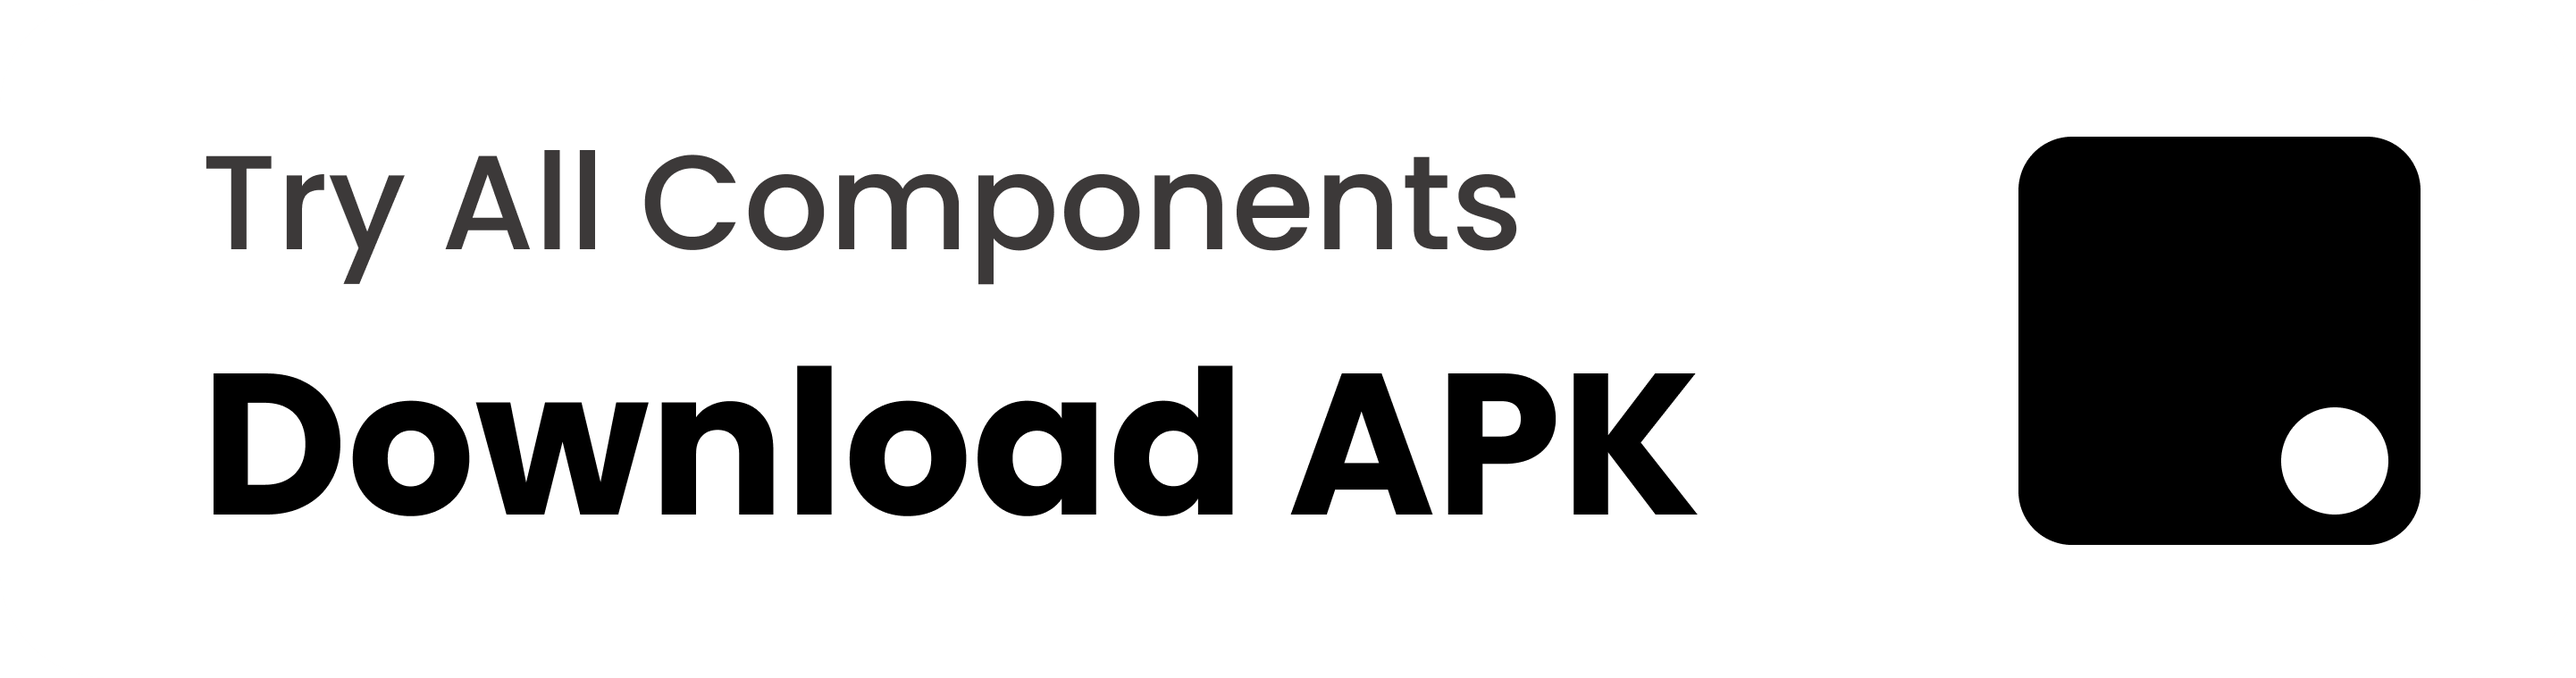
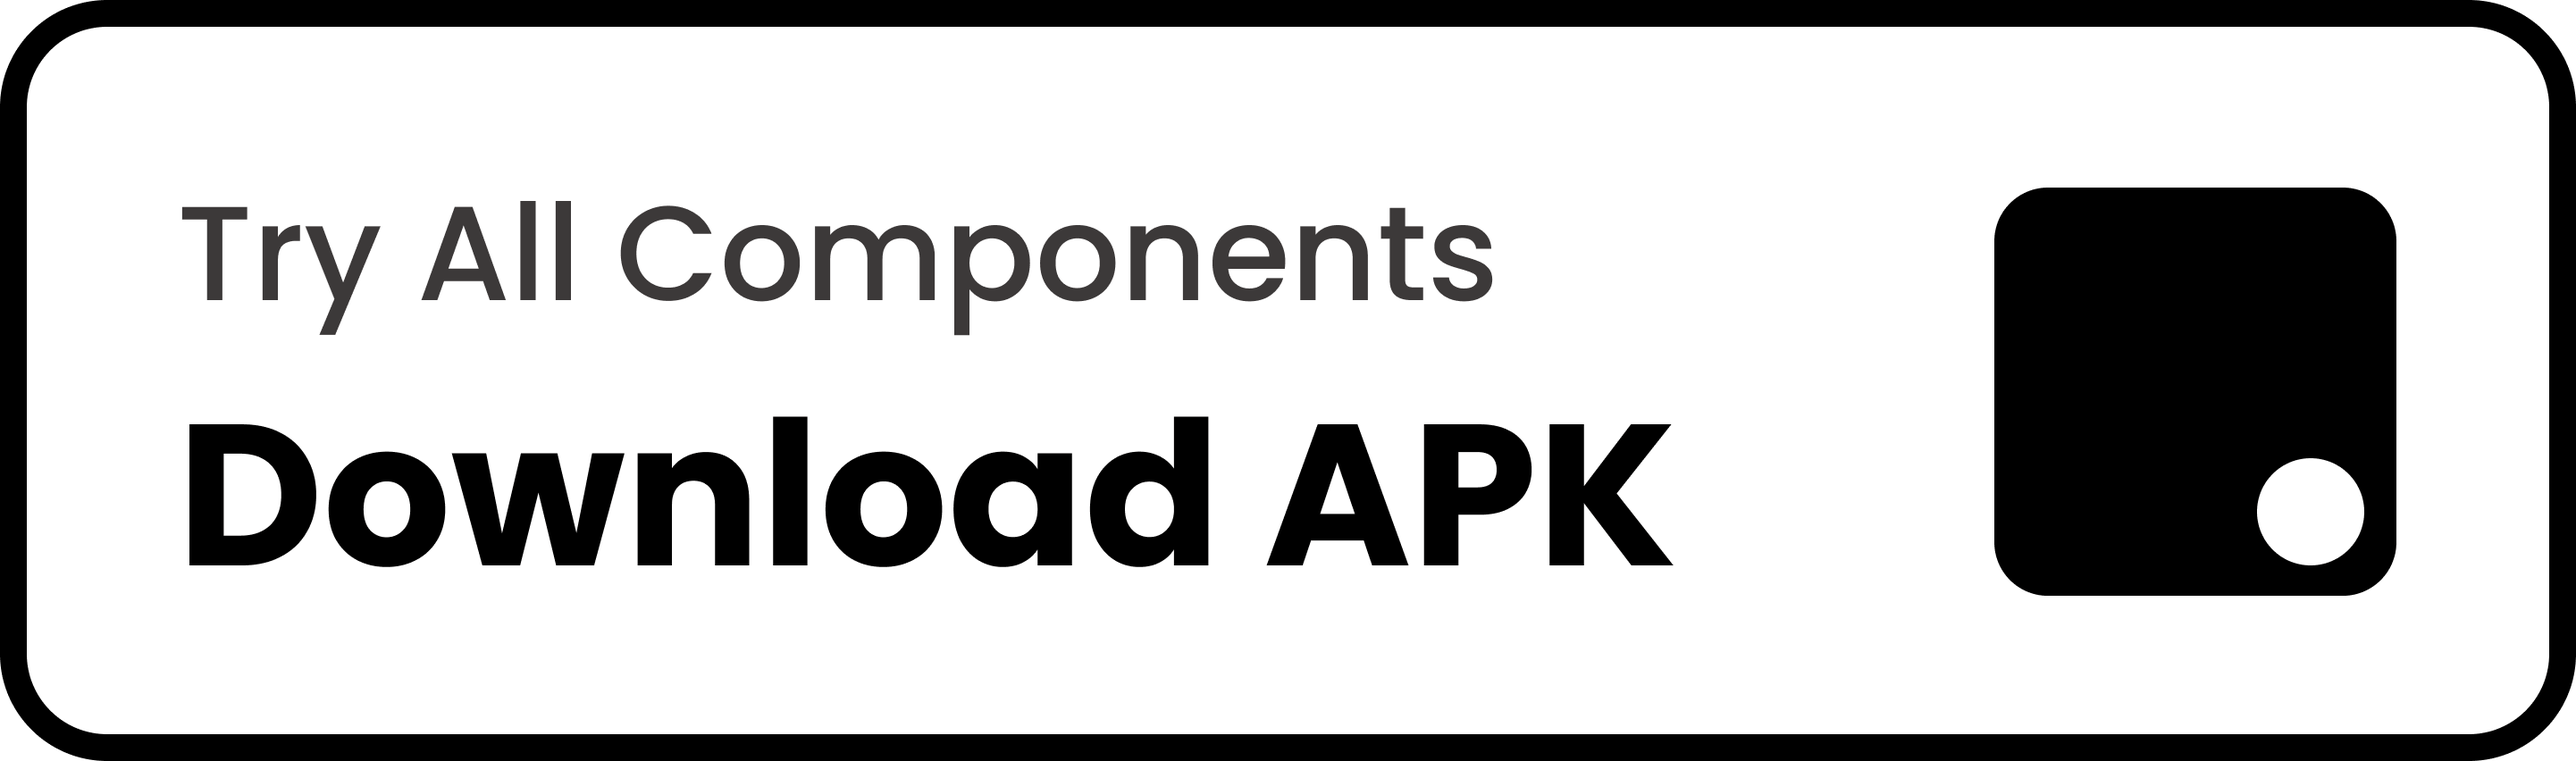
add google play button

diff --git a/components/demo-link.tsx b/components/demo-link.tsx
@@ -1,0 +1,42 @@
+import Image from "next/image";
+
+export default function DemoLink() {
+  return (
+    <div
+      style={{
+        display: "flex",
+        flexDirection: "column",
+        gap: "12px",
+        alignItems: "center",
+      }}
+    >
+      <a
+        href="https://play.google.com/store/apps/details?id=com.nomanr.lumo.sample"
+        target="_blank"
+        rel="noopener noreferrer"
+      >
+        <Image
+          src="/google-play.png"
+          alt="Get it on Google Play"
+          width={300}
+          height={1000}
+          priority
+        />
+      </a>
+
+      <a
+        href="https://lumo.nomanr.com/lumo-ui.apk"
+        target="_blank"
+        rel="noopener noreferrer"
+      >
+        <Image
+          src="/download-apk.png"
+          alt="Download APK"
+          width={300}
+          height={1000}
+          priority
+        />
+      </a>
+    </div>
+  );
+}

diff --git a/pages/_meta.tsx b/pages/_meta.tsx
@@ -1,15 +1,9 @@
-import DownloadAPK from "@components/DownloadAPK";
-import GetFromGooglePlay from "@components/GetFromGooglePlay";
+import DemoLink from "@components/demo-link";
 
 export default {
   "demo-apk": {
     type: "separator",
-    title: <DownloadAPK />,
-  },
-  "get-from-google-play": {
-    type: "separator",
-    title: <GetFromGooglePlay />,
-    display: "hidden",
+    title: <DemoLink />,
   },
   "getting-started-section": {
     title: "Getting Started",
